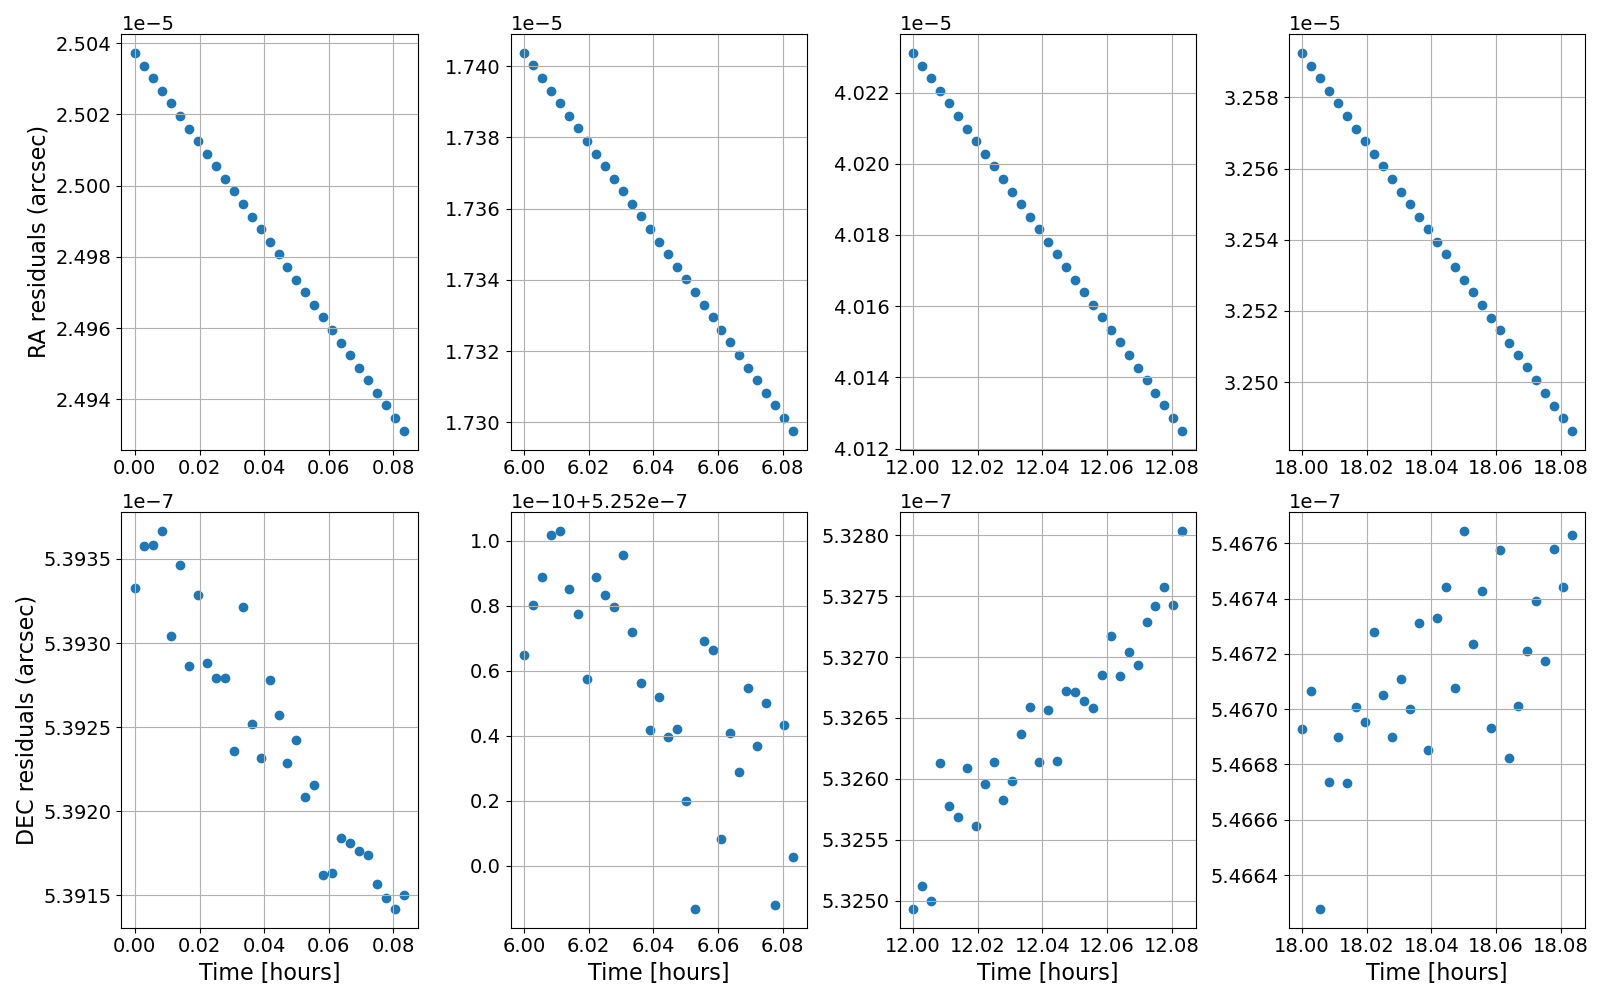
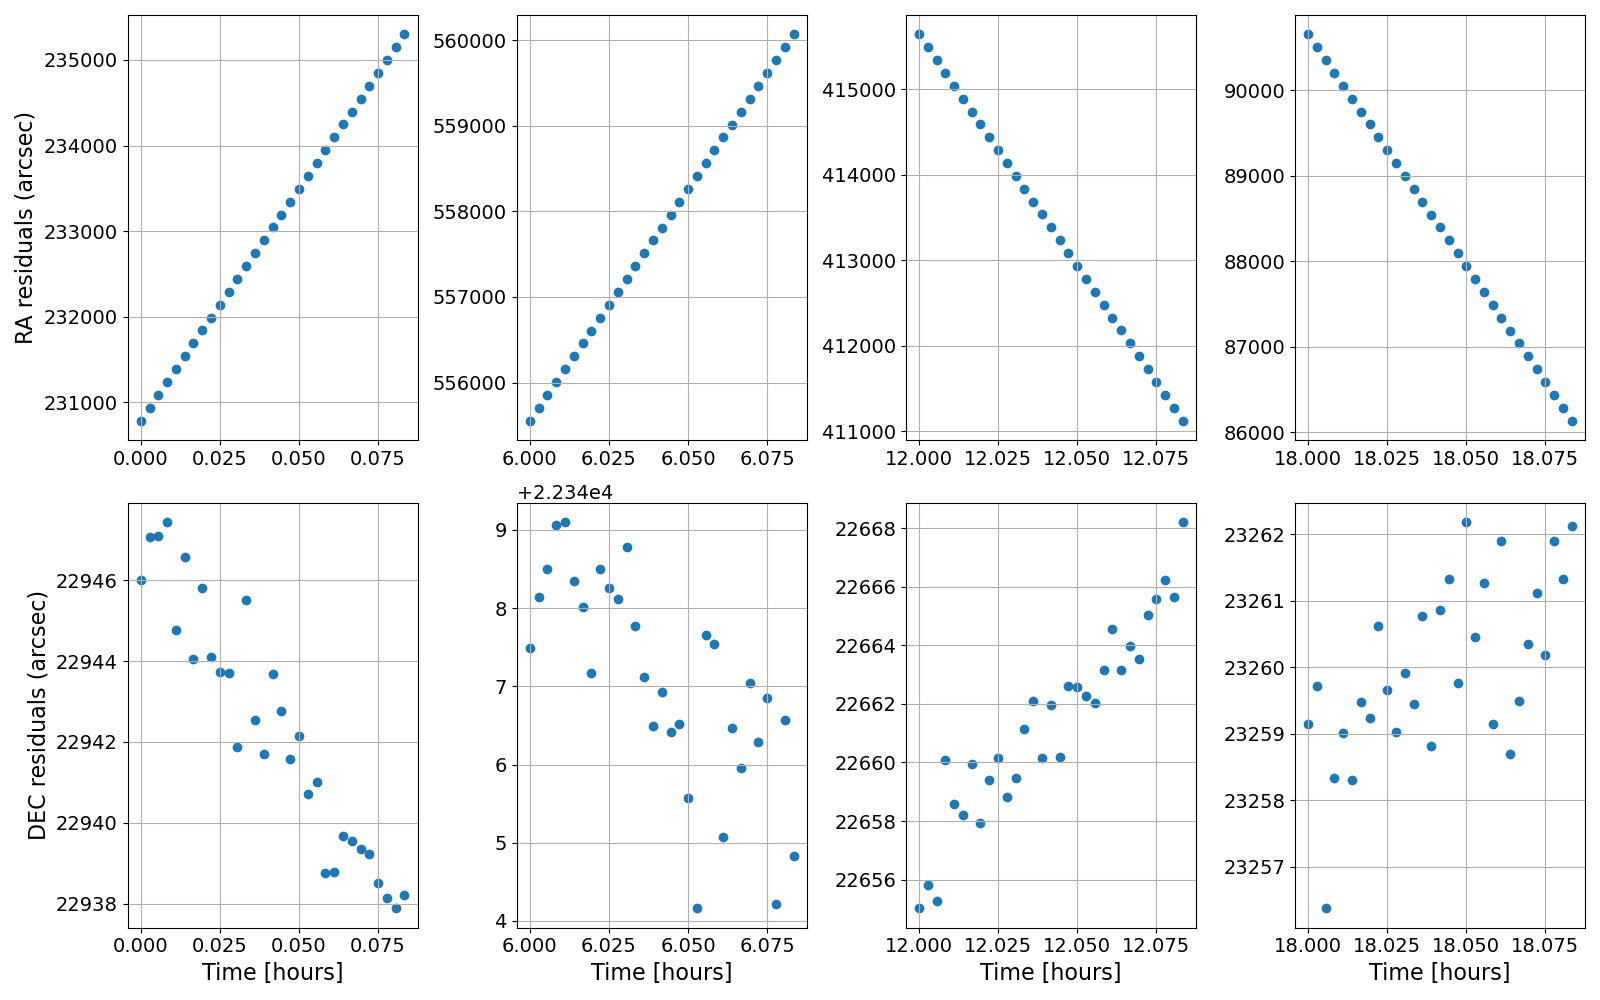
Small correction

diff --git a/question_2.py b/question_2.py
@@ -61,7 +61,7 @@ int_params = {'tudat_integrator': 'rkf78',
 
 def analysis(truth_state, state, meas,
              sensor, integ, filters, time, name: str, mtype, plotting):
-    arcsec2rad = (1. / 3600.) * np.pi / 180.
+    rad2arcsec = 1 / ((1. / 3600.) * np.pi / 180.)
     filter_output = util.ukf(state, meas, sensor,
                              integ, filters, None)
     # extract covars and state
@@ -204,6 +204,7 @@ def analysis(truth_state, state, meas,
         if mtype == 'rad':
             meas_val = np.asarray(meas['Yk_list']).reshape(124, 3)
             resid = (state_ric_pos - meas_val)
+
             fig, ((ax1, ax2, ax3, ax4), (ax5, ax6, ax7, ax8),
                 (ax9, ax10, ax11, ax12)) = plt.subplots(
                 3, 4, figsize=(12, 8))
@@ -247,8 +248,10 @@ def analysis(truth_state, state, meas,
         elif mtype == 'opt':
             ra, dec = xyz_to_radec_rad(state_ric_pos, time_rel*3600)
             meas_val = np.asarray(meas['Yk_list'])
-            resid_ra = np.abs(ra - meas_val[:, 0]) * arcsec2rad
-            resid_dec = np.abs(dec - meas_val[:, 1]) * arcsec2rad
+            resid_ra = np.mod(
+                np.abs(ra - meas_val[:, 0]), 2*np.pi) * rad2arcsec
+            resid_dec = np.mod(
+                np.abs(dec - meas_val[:, 1]), 2*np.pi) * rad2arcsec
             fig, ((ax1, ax2, ax3, ax4), (ax5, ax6, ax7, ax8)) = plt.subplots(
                 2, 4, figsize=(16, 10))
             # R direction
@@ -294,9 +297,6 @@ def xyz_to_radec_rad(pos, time):
     ra = np.arctan2(y, x) - np.arange(len(time))*10*dtheta
 
     # Ensure RA is between 0 and 2π
-    for i in range(len(x)):
-        if ra[i] < 0:
-            ra[i] += 2 * math.pi
 
     return ra, dec
 
